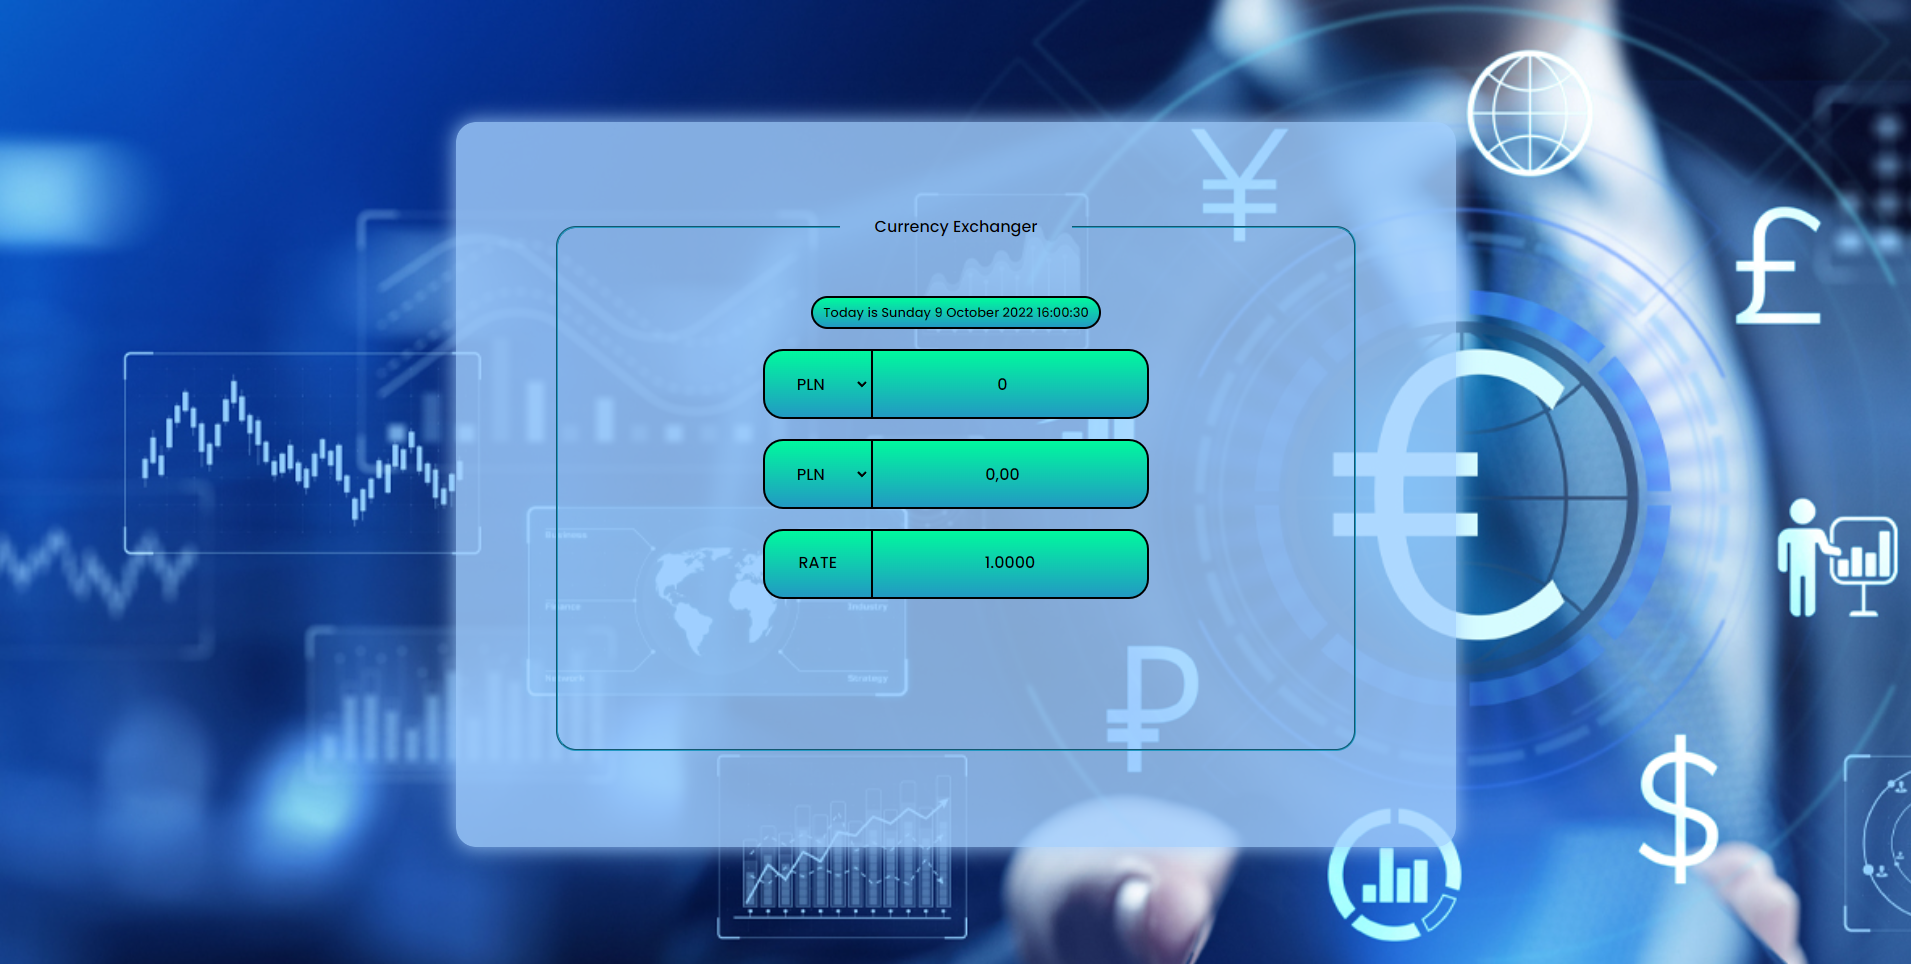
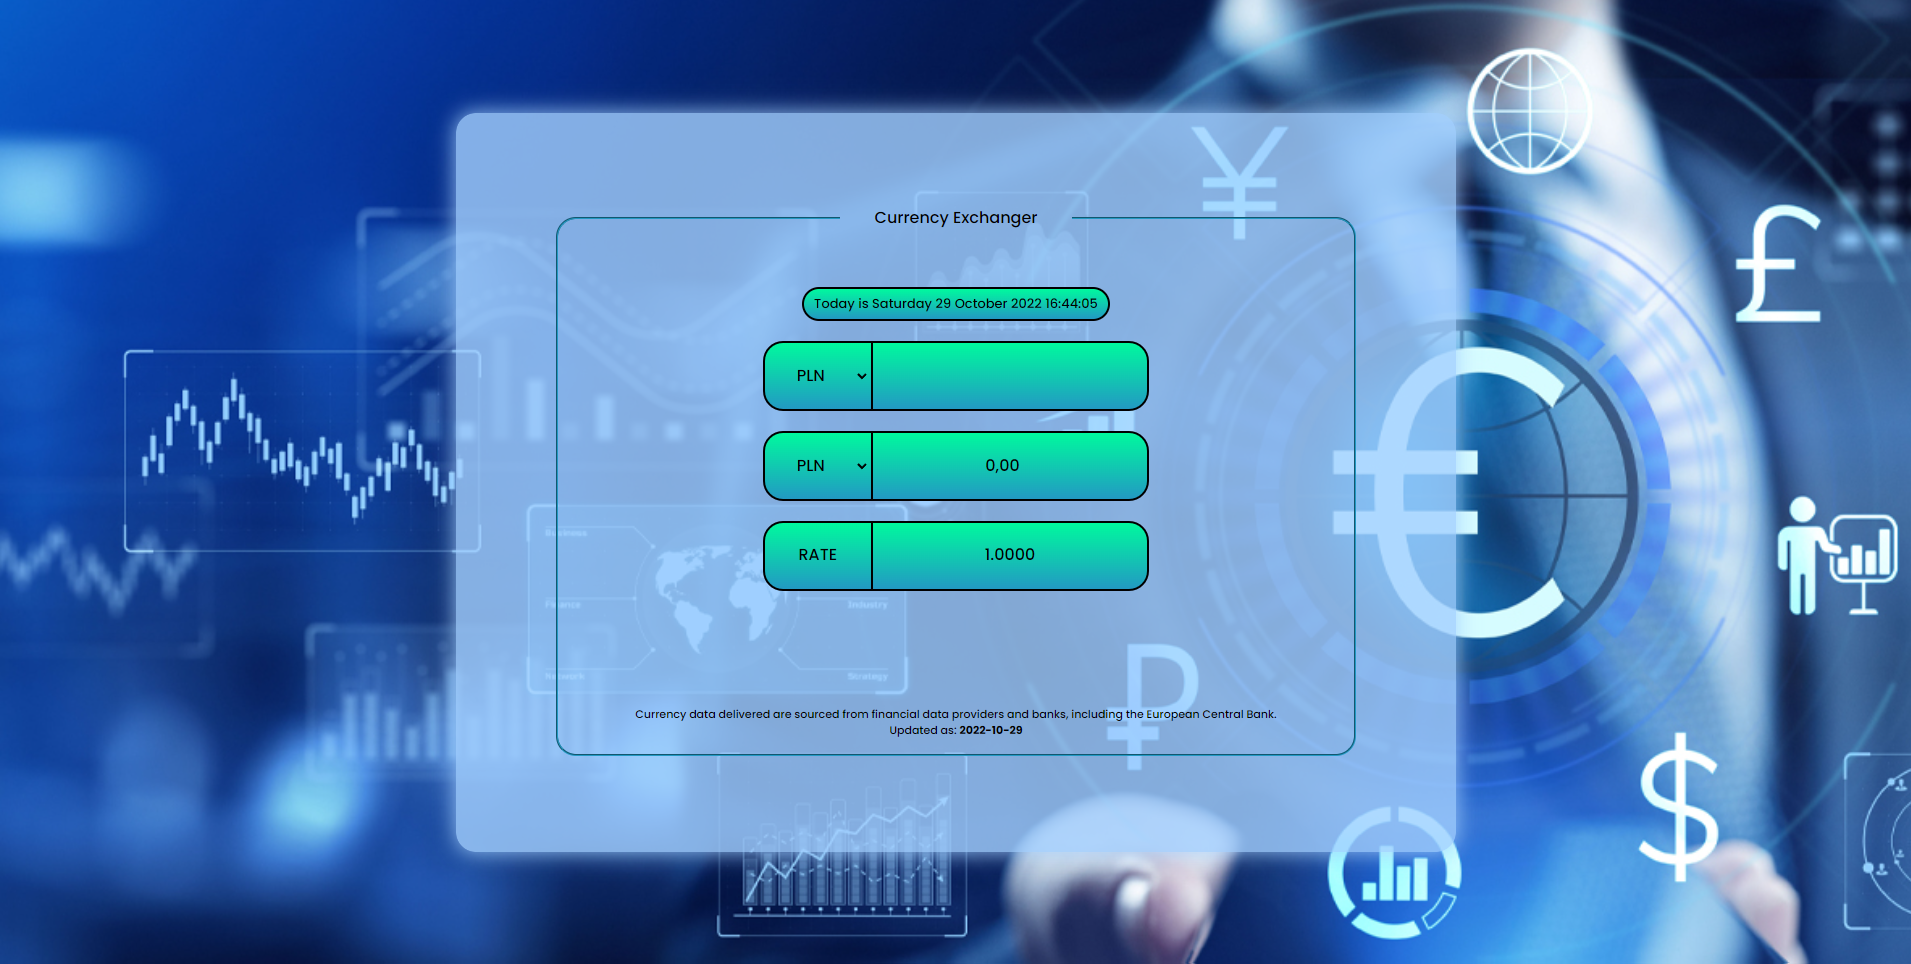
readme changes, updated ss

diff --git a/README.md b/README.md
@@ -5,7 +5,7 @@
 
 Link to website [CurrencyExchanger](https://paweleszczynsky.github.io/Currency-Exchanger-React/)
 
-Link to [App video presentation](https://youtu.be/4BRoh-tp93c)
+Link to [App video presentation](https://youtu.be/WFuSZ3M9F6s)
 
 ## Description website
 
@@ -19,15 +19,19 @@ The website allows exchange five currencies.
 
  Exchanger currency allows choose two types of currencies. First currency to exchange and secound target currency. After type any value the website automatically recalculates and presents the result. Additionally website shows the current exchange rate. After converting value, under rate value bar appears information bar and concludes currency exchange.
 
+### Convert result
  ![Result of convert value](./src/images/readmess2.png)
-
+ ### Updating API
+ ![Downloading API](./src/images/readmess3.png)
+ ### Updating Error
+ ![Downloading API](./src/images/readmess4.png)
 ## Used technologies
 
 - HTML
 - CSS (Flexbox, Grid, Media Queries)
-- JavaScript ES6 (JSX)
+- JavaScript ES6 (JSX, Axios)
 - Markdown
-- Create React App (Hooks, Handling Events, Styled Components)
+- Create React App (Hooks, Handling Events, Styled Components, Styled Icons)
 
 ### This project was bootstrapped with [Create React App](https://github.com/facebook/create-react-app).
 
